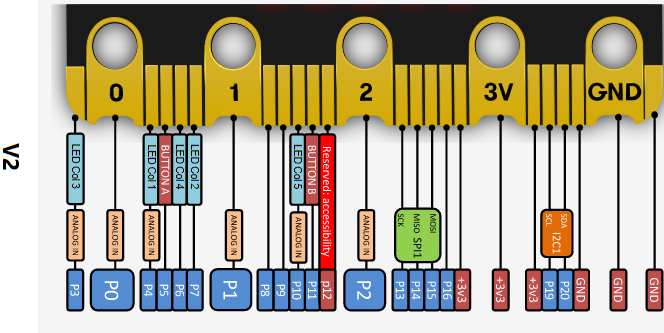
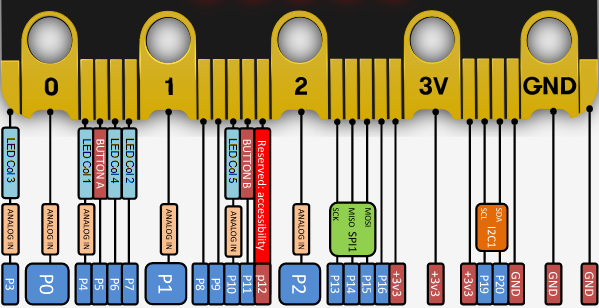
fucking useless

diff --git a/src/components/modulator/testing/moduCompTest.tsx b/src/components/modulator/testing/moduCompTest.tsx
@@ -81,6 +81,12 @@ export default function ModuleComponentTest(
 
     const sortedPinlayout = module.pinLayout.sort((x, y) => x.posPin > y.posPin ? 1: x.posPin < y.posPin ? -1: 0);
     
+//    document.getElementById("connector2pin").addEventListener("click", function() {
+//         console.log("Fuck");
+        
+//    })
+
+
     return(
         
         <div style={{border: "1px solid black", borderRadius: "20px", padding: "10px", margin: "10px" }}>
@@ -94,13 +100,19 @@ export default function ModuleComponentTest(
 
 
             {module.diagram === undefined?null:
-            // <div style={{textAlign:"center"}}>
-            //     <img style={{textAlign: "center", margin:"0"}} alt={"test"} src={"https://raw.githubusercontent.com/fritzing/fritzing-parts/9597553a1adc09019b4a42fe7929196abff18133/svg/core/breadboard/hc-sr04_bf8299a_002.svg"} width="300"/>
-            // </div>
             <div style={{textAlign:"center"}}>
-                <img style={{textAlign: "center", margin:"0"}} alt={"test"} src={"https://raw.githubusercontent.com/fritzing/fritzing-parts/9597553a1adc09019b4a42fe7929196abff18133/svg/core/breadboard/led-rgb-4pin-anode-leg.svg"} width="300"/>
+                <img style={{textAlign: "center", margin:"0"}} alt={"test"} src={"https://raw.githubusercontent.com/fritzing/fritzing-parts/9597553a1adc09019b4a42fe7929196abff18133/svg/core/breadboard/hc-sr04_bf8299a_002.svg"} width="300"/>
             </div>
+            
+
+             
+            // <div style={{textAlign:"center"}}>
+            //     <img style={{textAlign: "center", margin:"0"}} alt={"test"} src={"https://raw.githubusercontent.com/fritzing/fritzing-parts/9597553a1adc09019b4a42fe7929196abff18133/svg/core/breadboard/led-rgb-4pin-anode-leg.svg"} width="300"/>
+            // </div>
             }
+            {/* <div style={{textAlign:"center"}}>
+                <img style={{textAlign: "center"}} src={module.diagram} alt="module diagram" width="200"/>
+            </div> */}
             {/*Drawing the needed boxes???*/ }
             <div style={{textAlign:"center"}}>
                 <svg height={20} width={300}>

diff --git a/src/components/modulator/pinLayoutComp.tsx b/src/components/modulator/pinLayoutComp.tsx
@@ -1,14 +1,45 @@
 import { Grid } from "@mui/material";
-import React from "react";
+import React, { useState } from "react";
 import GridHeader from "../ui/GridHeader"
 import { StaticImage } from "gatsby-plugin-image";
-//TODO: hover working!!!
+import ImageMapper from 'react-image-mapper';
 
+//TODO: hover start is made
+// nog no clue hoe verder, mogelijk gewoon met kleur ofzo
 export default function PinLayoutComp(){
+
+    const [hoverdArea, setHoverArea] = useState(null);
+
+    const onClicked = (area:any) => {
+        console.log(area)
+    }
+
+    const MAP = {
+        name: "my-map",
+        areas: [
+            {name: "P1", shape: "poly", coords:[1, 262, 1, 305, 18, 305, 18, 262], fillColor: "blue"}
+        ]
+    }
+    const getTipPosition = (area) => {
+        return { top: `${area.center[1]}px`, left: `${area.center[0]}px` };
+    }
+
     return(
         <Grid item>
-            <GridHeader title={"Micro:bit Pin Layout"}/>
-            <StaticImage src="./images/pins-v2.png" alt={"Pin layout Micro:bit"}/>
+            <GridHeader title={"Micro:bit Pin Layout V2"}/>
+            <ImageMapper src="https://i.imgur.com/m52rVjP.png" map={MAP} width={500} imgWidth={600}
+                onClick={area => onClicked(area)}
+                onMouseEnter={area => setHoverArea(area)}
+                onMouseLeave={area => setHoverArea(null)}
+              
+            />
+            {
+                hoverdArea &&
+                <span className="tooltip"
+                    style={{ ...getTipPosition(hoverdArea)}}>
+                    { hoverdArea && hoverdArea.name}
+                </span>
+            }
         </Grid>
     )
 }
